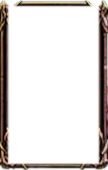
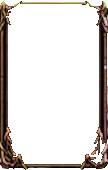
castle: bezel inside actually transparent (flood-clear) + WORKFLOW trap 17
The shipped bezel was NOT what was claimed: the fitter cleared the cavity
as a rectangle, which chopped the corner ornaments that sweep inside the
cavity rect and left a hairline (6.9% solid pixels), then an alpha blur
ate the rails further. Owner made a correct one by hand in five minutes.

Fix is only this, nothing else: build_cut_and_place now flood-clears the
dark leather interior from the cavity centre (value<48, alpha>0), fills
enclosed sheen specks, never clears beyond cavity+6px, and zeroes RGB
under cleared pixels - inside transparent, only the border kept, ornaments
whole. Verified on the produced file: centre pixel (0,0,0,0), solid-border
fraction 0.069 -> 0.153, checkerboard proof in
preview/castle-bezel-transparent.png. Overlay byte-identical; no game code
touched.

WORKFLOW trap 17 (owner's note): every delivered-art table has at least
its card bezel(s) to make transparent this way, and no property of an
asset is reported without opening the produced file in the same pass.
Do not lie about the asset; check it.

Changed region(s): [[0.0, 0.0, 1.0, 1.0], [0.9722, 0.1471, 1.0, 0.7059], [0.9722, 0.0882, 1.0, 0.1176]]

diff --git a/tools/table_art.py b/tools/table_art.py
@@ -282,16 +282,56 @@ def build_cut_and_place(spec, folder):
                 unit = unit.resize((round(unit.width * k), round(unit.height * k)), Image.LANCZOS)
             cav_px = [(cav[0] - corp[0]) * ns * k, (cav[1] - corp[1]) * ns * k,
                       cav[2] * ns * k, cav[3] * ns * k]
-            # Hollow frame (owner live test, 30 Oct 2026): the cavity clears to alpha 0
-            # so the game draws the bezel OVER its card - frame over picture - instead
-            # of the card sitting on an opaque leather mat longer than the card itself.
+            # Hollow frame: flood-clear the dark leather INTERIOR from the cavity
+            # centre so only the border survives - corner ornaments that sweep
+            # inside the cavity rect included. (First pass cleared the rectangle
+            # and chopped those ornaments to a hairline; a blur on top ate the
+            # rails. WORKFLOW trap 17.) Cleared pixels become (0,0,0,0): no
+            # leather RGB left under the transparency to bleed through mipmaps.
             arr = np.array(unit)
-            x0, y0 = round(cav_px[0]), round(cav_px[1])
-            x1, y1 = round(cav_px[0] + cav_px[2]), round(cav_px[1] + cav_px[3])
-            arr[max(y0, 0):min(y1, unit.height), max(x0, 0):min(x1, unit.width), 3] = 0
+            val = arr[..., :3].max(axis=2)
+            fillable = (arr[..., 3] > 0) & (val < 48)
+            cx = min(max(round(cav_px[0] + cav_px[2] / 2), 0), unit.width - 1)
+            cy = min(max(round(cav_px[1] + cav_px[3] / 2), 0), unit.height - 1)
+            if not fillable[cy, cx]:
+                raise SystemExit(f"{c['name']}: cavity centre ({cx},{cy}) is not dark "
+                                 f"interior (value {val[cy, cx]}) - cannot flood-clear")
+
+            def flood(seeds, passable):
+                seen = np.zeros(val.shape, bool)
+                dq = deque()
+                for sx, sy in seeds:
+                    if passable[sy, sx] and not seen[sy, sx]:
+                        seen[sy, sx] = True
+                        dq.append((sx, sy))
+                while dq:
+                    x, y = dq.popleft()
+                    for nx, ny in ((x - 1, y), (x + 1, y), (x, y - 1), (x, y + 1)):
+                        if 0 <= nx < unit.width and 0 <= ny < unit.height \
+                                and not seen[ny, nx] and passable[ny, nx]:
+                            seen[ny, nx] = True
+                            dq.append((nx, ny))
+                return seen
+
+            inside = flood([(cx, cy)], fillable)
+            # Bright sheen specks enclosed by the cleared interior clear too:
+            # anything not reachable from the image border without crossing it.
+            border_seeds = [(x, 0) for x in range(unit.width)] + \
+                           [(x, unit.height - 1) for x in range(unit.width)] + \
+                           [(0, y) for y in range(unit.height)] + \
+                           [(unit.width - 1, y) for y in range(unit.height)]
+            outside = flood(border_seeds, ~inside)
+            clear = inside | (~inside & ~outside)
+            # Never clear beyond the measured cavity (+6 px slop): a leak through
+            # a dark rail gap must not eat the border's outer shadow.
+            x0 = max(round(cav_px[0]) - 6, 0)
+            y0 = max(round(cav_px[1]) - 6, 0)
+            x1 = min(round(cav_px[0] + cav_px[2]) + 6, unit.width)
+            y1 = min(round(cav_px[1] + cav_px[3]) + 6, unit.height)
+            box = np.zeros(val.shape, bool)
+            box[y0:y1, x0:x1] = True
+            arr[clear & box] = (0, 0, 0, 0)
             unit = Image.fromarray(arr, "RGBA")
-            r, g, b, a = unit.split()
-            unit = Image.merge("RGBA", (r, g, b, a.filter(ImageFilter.GaussianBlur(0.8))))
             out_manifest[c["name"]] = {"size": [unit.width, unit.height],
                                        "cavity_px": [round(v, 2) for v in cav_px],
                                        "cavity_cleared": True,
